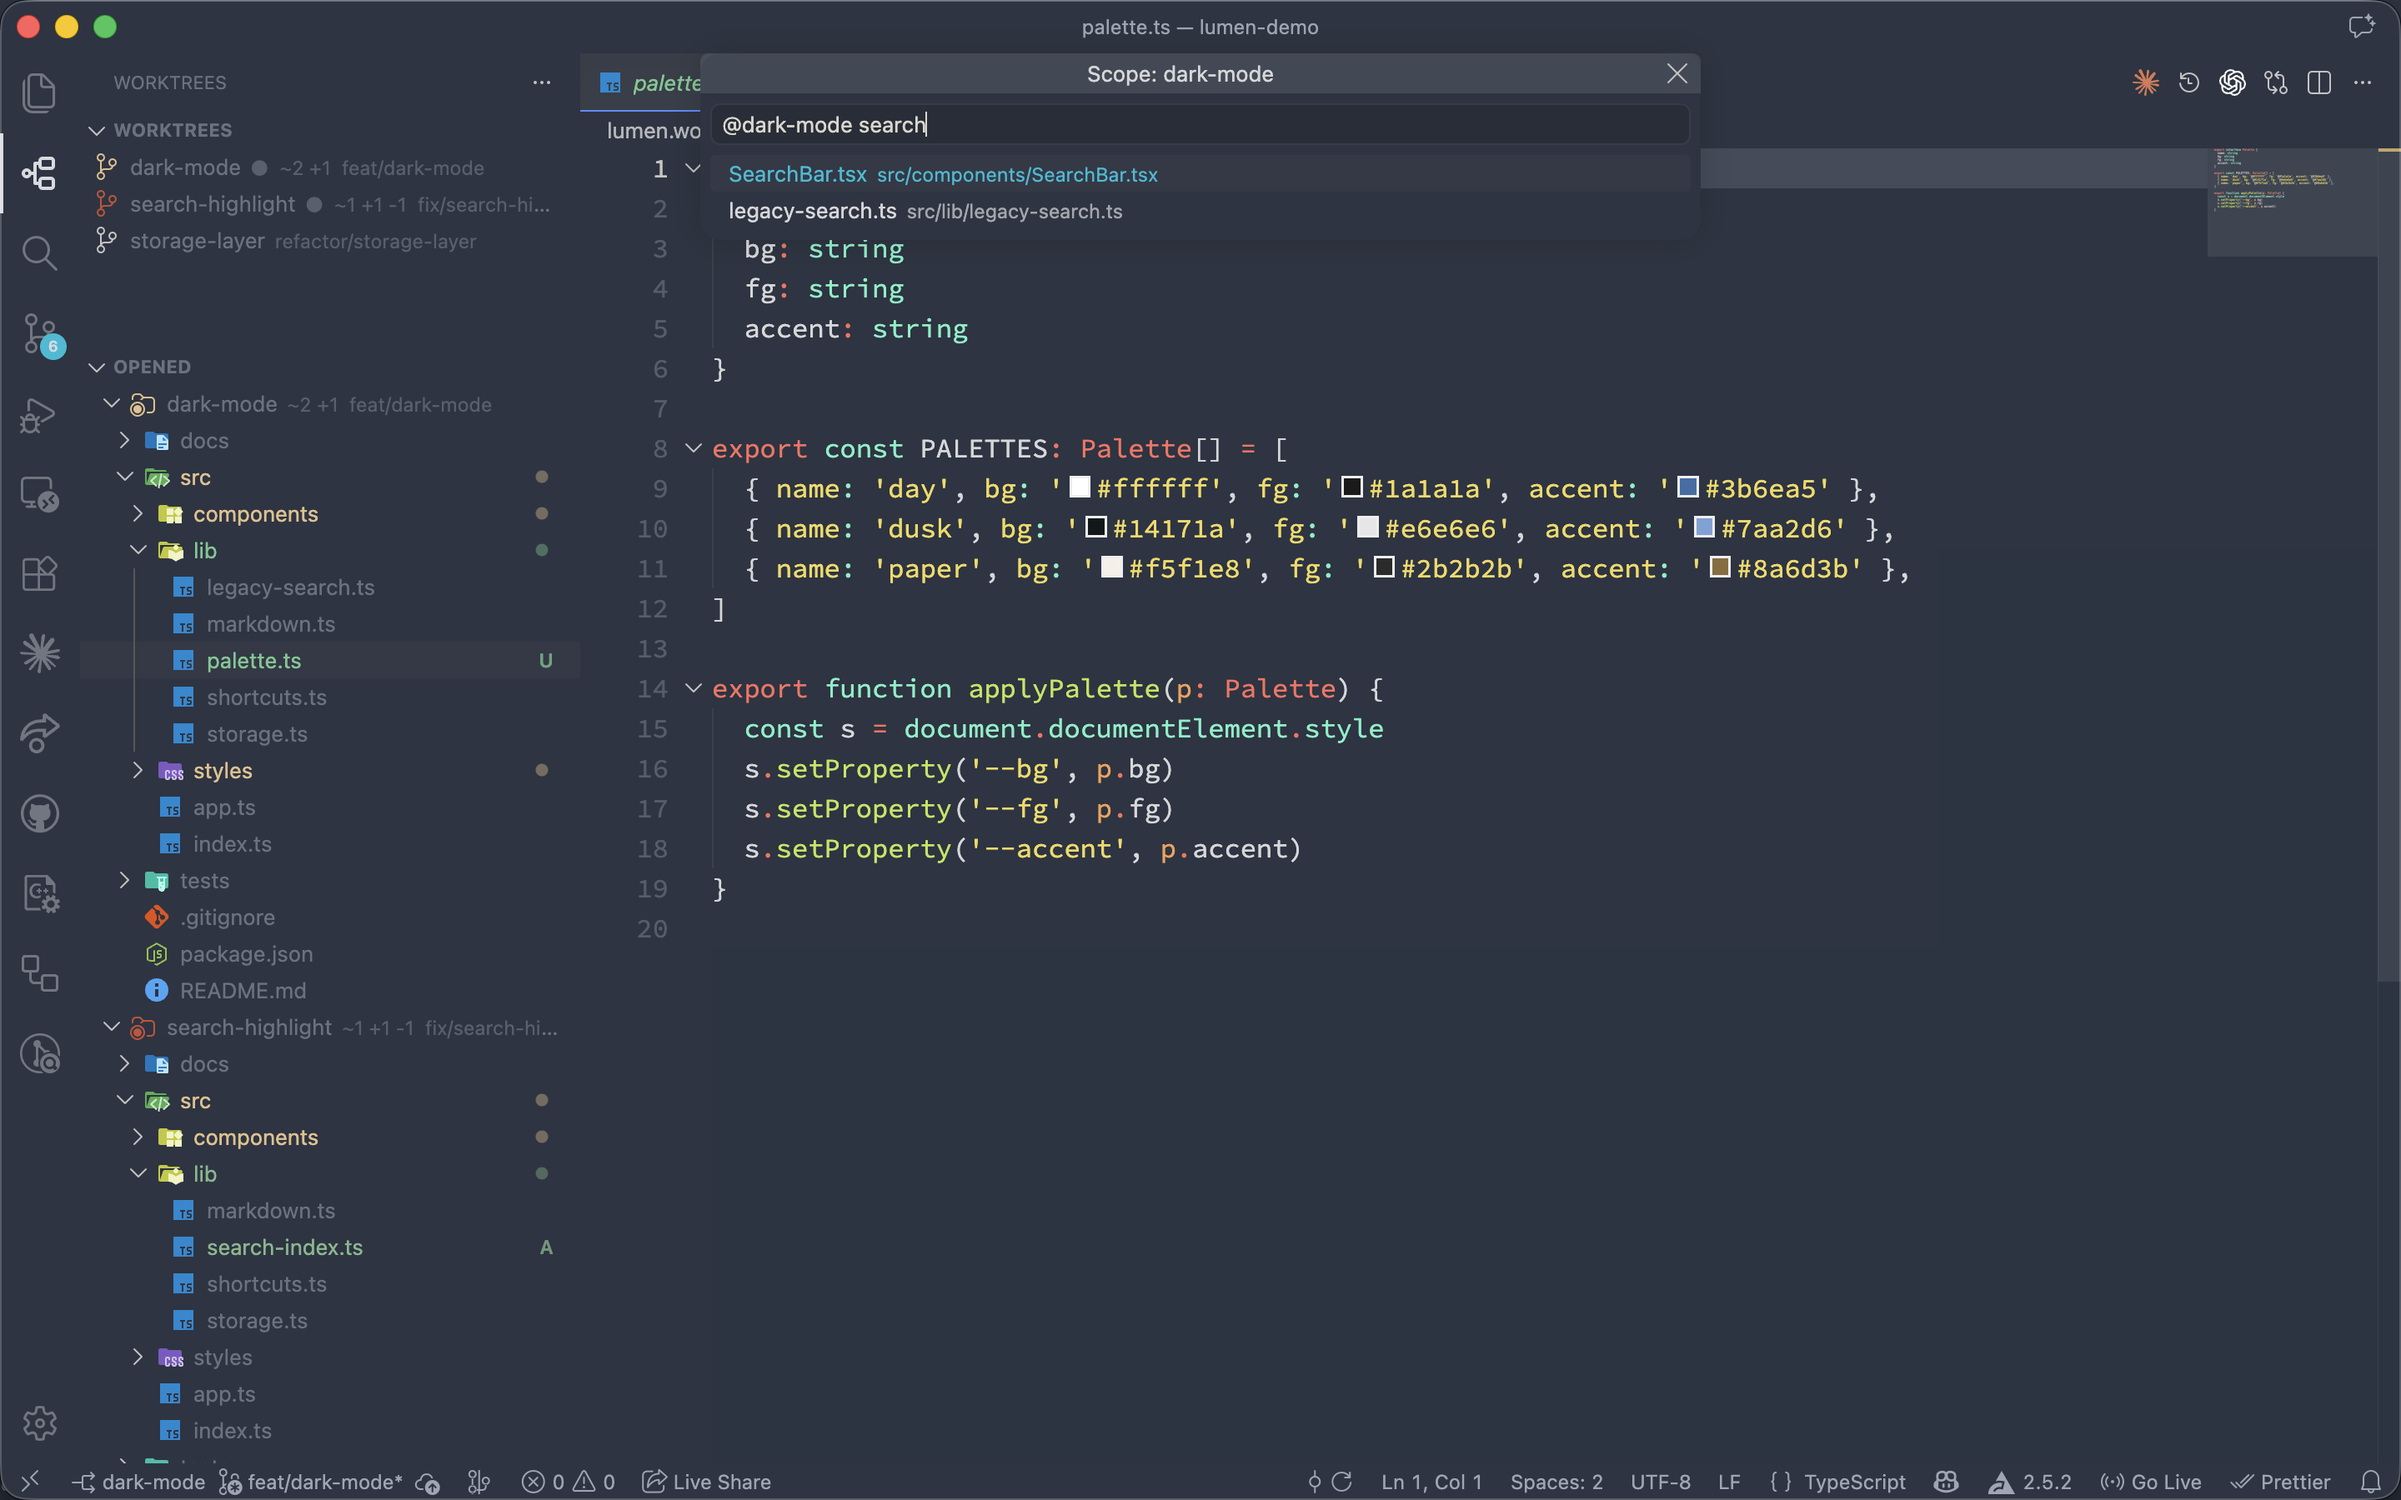
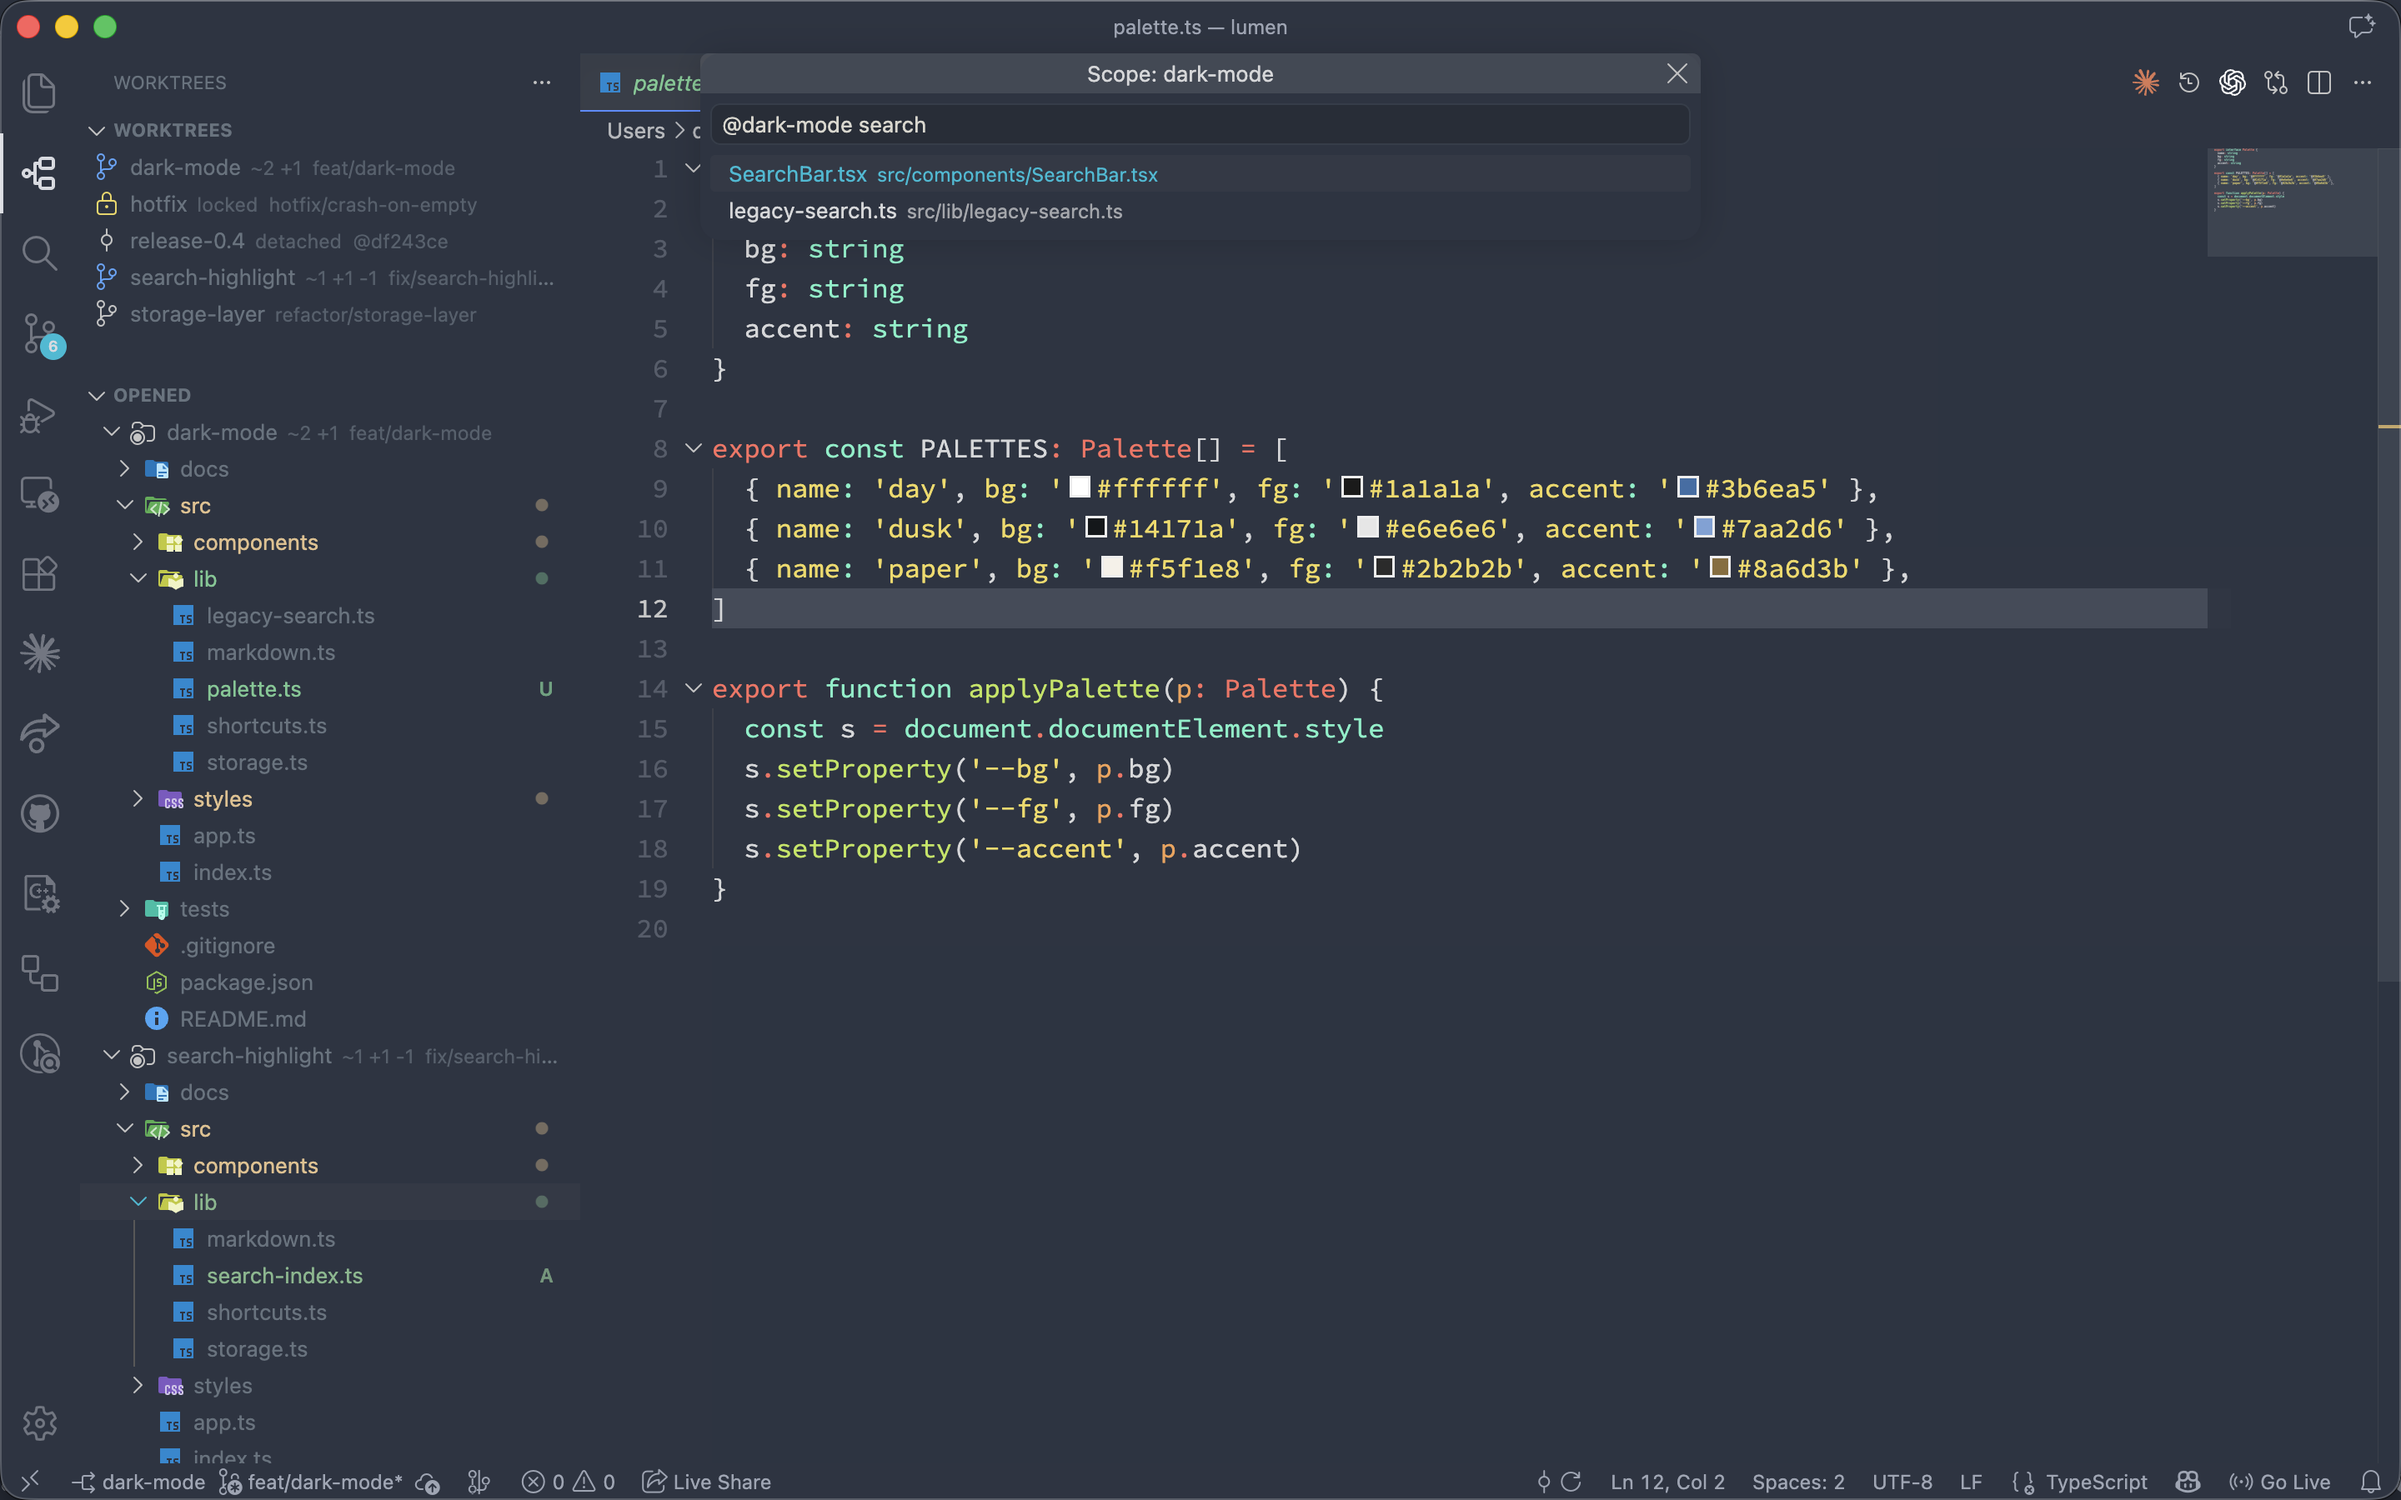
Reshoot the screenshot showing the worktree conditions
Five worktrees now, covering branch, locked and detached, so the icons actually
have something to distinguish.

diff --git a/README.md b/README.md
@@ -10,13 +10,14 @@ because worktrees typically live outside the workspace or behind a `.gitignore` 
 This extension gives them a home in the current window: a sidebar to browse them, a search
 that can actually see them, and git status painted the way the Explorer paints it.
 
-![The Worktrees sidebar listing three worktrees of one repository with their branches and git
-tallies, two of them opened below as file trees with status badges, and a file search scoped
-to one worktree](docs/screenshot.png)
+![The Worktrees sidebar listing five worktrees of one repository, told apart by icon into
+branch, locked and detached kinds, with two of them opened below as file trees carrying git
+status badges, and a file search scoped to one worktree](docs/screenshot.png)
 
-*Three worktrees of one repository. The top pane lists each with a `~2 +1` tally of its
-uncommitted work, then its branch; two are opened below as file trees, with status badges on
-the changed files. The search is scoped to `dark-mode` through the `@` tag in the input.*
+*One repository, five worktrees. The top pane says what each one is: three sit on branches
+(blue while opened below), one is locked, one is detached and shows the commit it sits on.
+Two are opened underneath as file trees, with status badges on the changed files. The search
+is scoped to `dark-mode` through the `@` tag in the input.*
 
 ## Install
 
